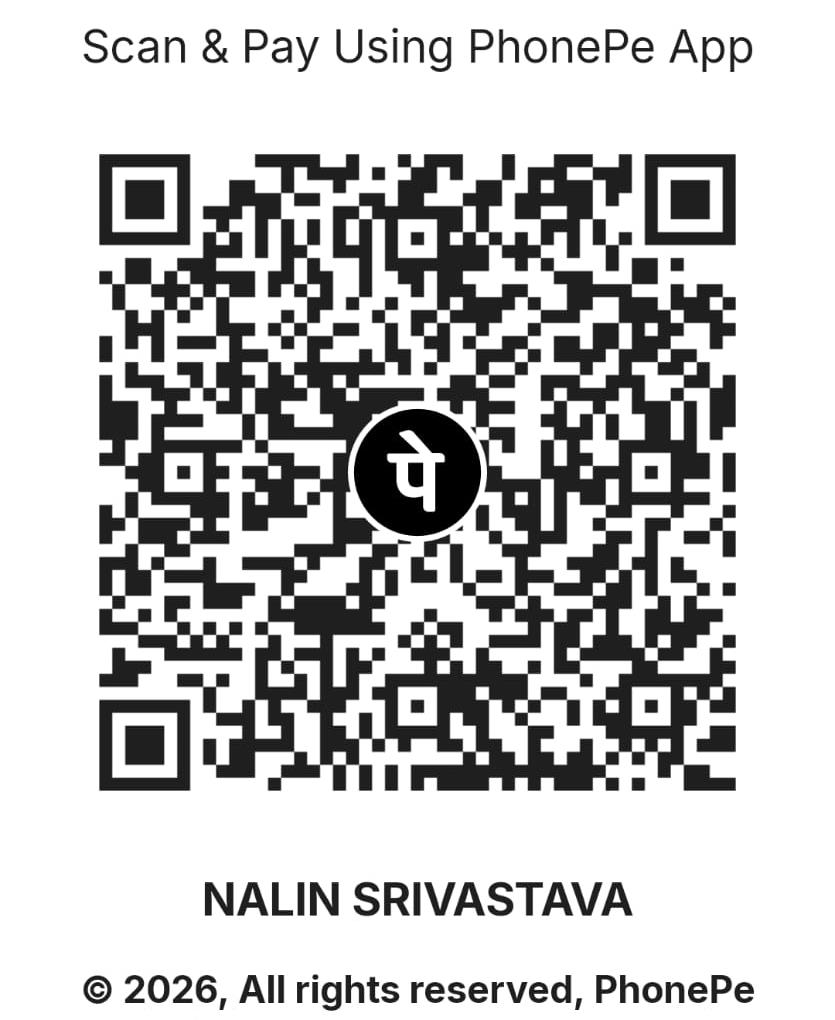
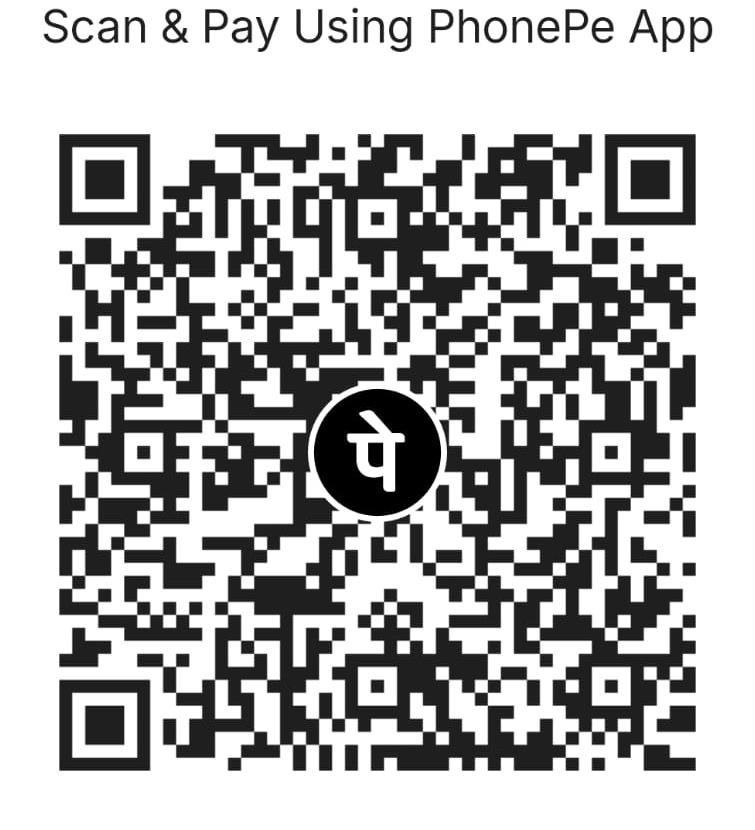
Tighter crop for QR code and increase display size

diff --git a/frontend/src/pages/Registration.jsx b/frontend/src/pages/Registration.jsx
@@ -333,7 +333,7 @@ const Registration = () => {
                                             <img 
                                                 src="/payment-qr-cropped.jpg" 
                                                 alt="PhonePe QR Code for Nalin Srivastava" 
-                                                className="w-40 h-auto object-contain"
+                                                className="w-56 h-auto object-contain"
                                                 onError={(e) => {
                                                     e.target.onerror = null;
                                                     e.target.src = "https://api.qrserver.com/v1/create-qr-code/?size=250x250&data=upi://pay?pa=9950962509@ybl%26pn=NALIN%20SRIVASTAVA%26am=1000%26cu=INR";
